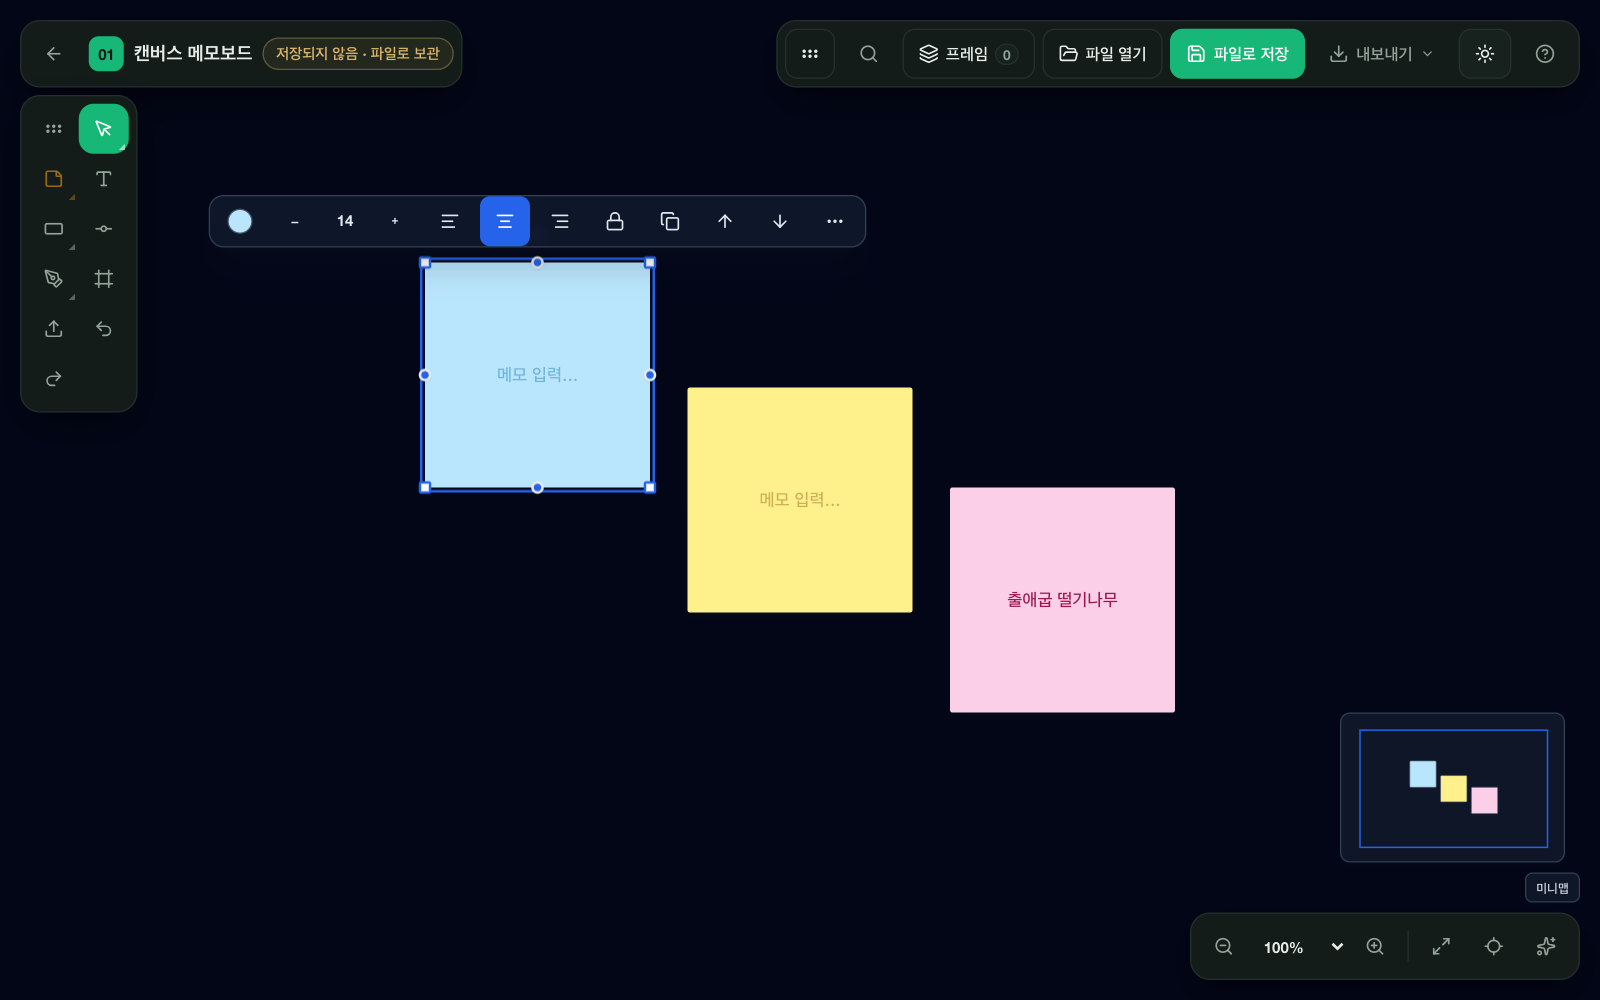
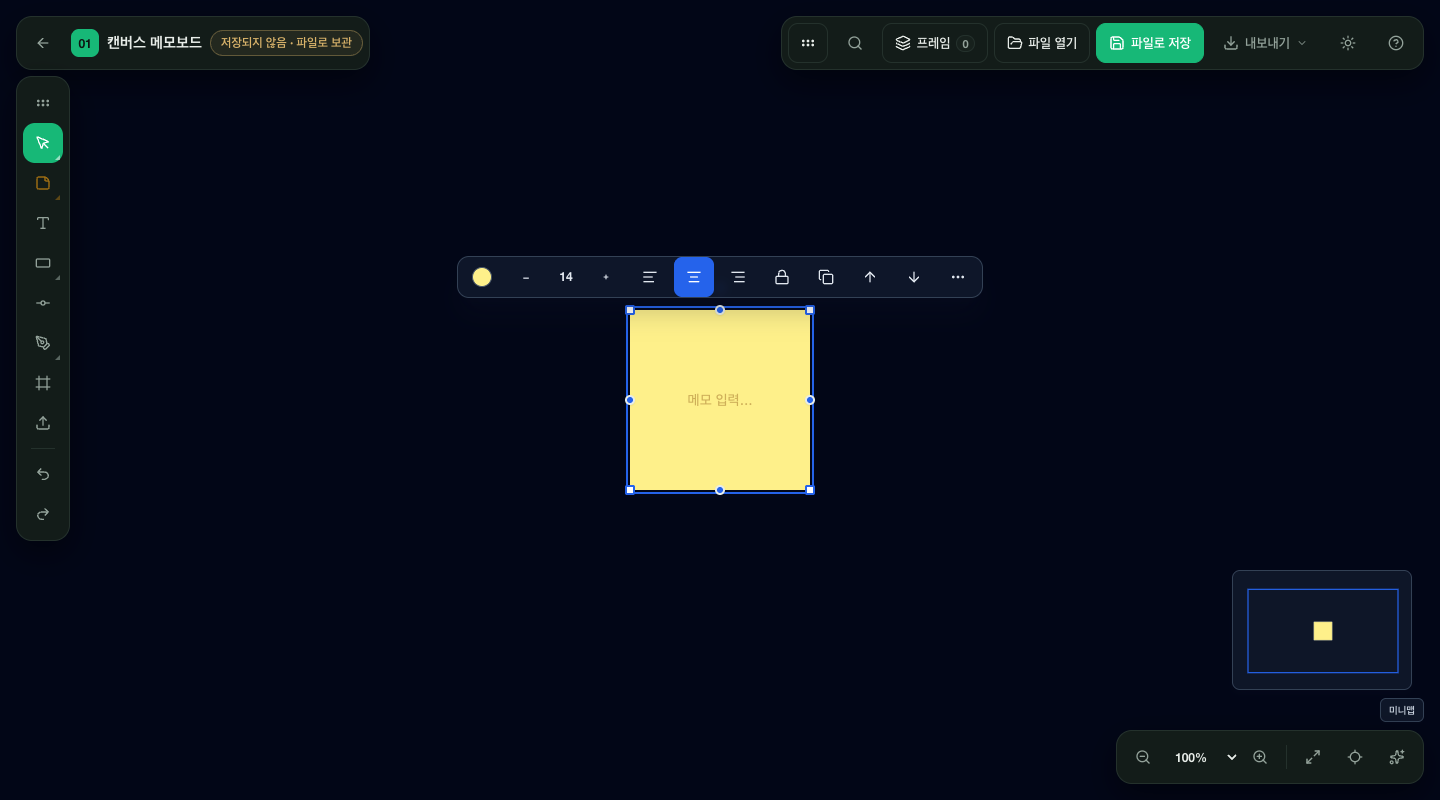
fix(canvas): keep the tool rail in one column on ordinary screen heights

diff --git a/src/guest-canvas.css b/src/guest-canvas.css
@@ -417,7 +417,7 @@ body {
  * A grid — rather than a scroll container — keeps the fly-out popovers of the
  * sticky / shape / stroke tools visible instead of clipping them.
  */
-@media (max-height: 880px) {
+@media (max-height: 640px) {
   .gc-toolbar {
     display: grid;
     grid-template-columns: repeat(2, 40px);
